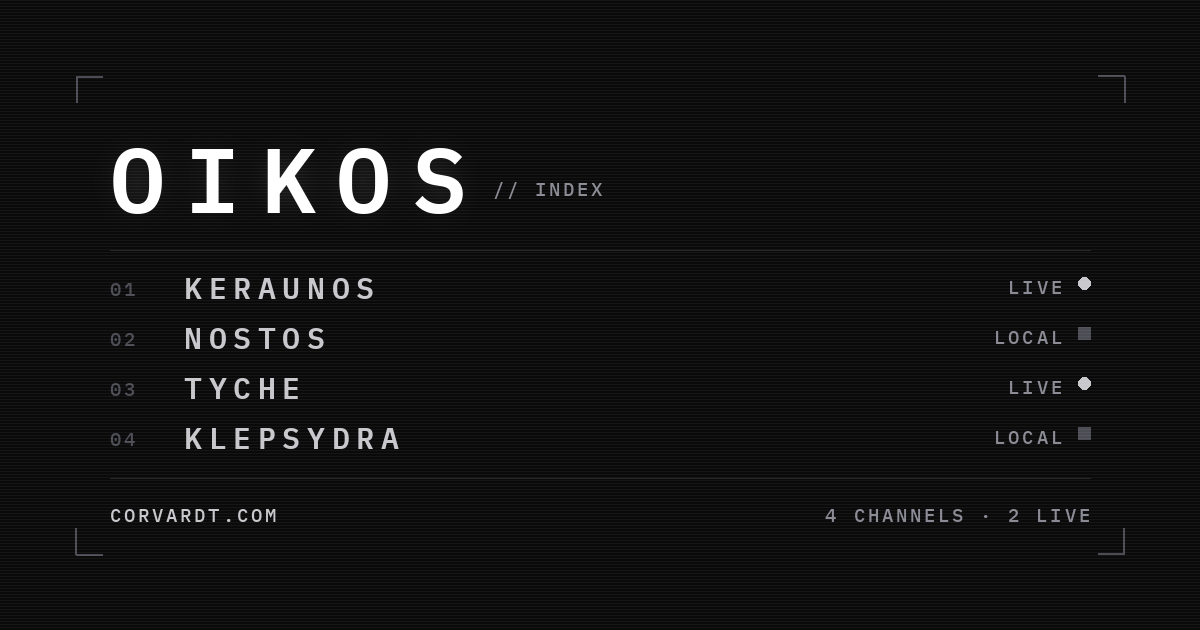
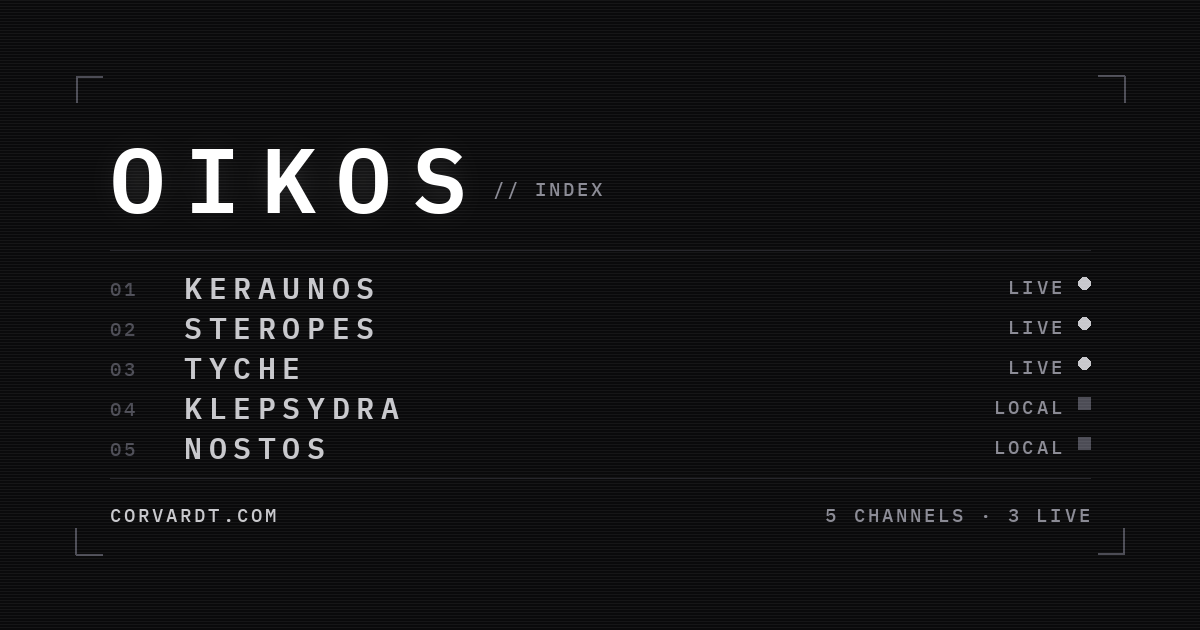
stations' order

diff --git a/records.js b/records.js
@@ -16,14 +16,12 @@ export const RECORDS = [
     status: 'live',
   },
   {
-    name: 'NOSTOS',
-    etym: 'νόστος · the homecoming',
-    desc: 'A media downloader that runs on your own machine. Paste a link, see what it is, queue it. Nothing is sent anywhere but the site you are pulling from.',
-    // It is not meant to be hosted, so the address is where the thing actually
-    // is: the repository you clone it from.
-    host: 'github.com/corvardt/nostos',
-    stack: 'python · fastapi · react · yt-dlp',
-    status: 'local',
+    name: 'STEROPES',
+    etym: 'Στερόπης · the lightning-maker, who forged the bolt',
+    desc: 'Random numbers drawn from lightning. The low digits of where a strike landed are solver noise nobody can predict; the page collects them, grades them against four statistical tests in front of you, and deals coins, dice, decks and plates from strikes that have not happened yet.',
+    host: 'steropes.corvardt.com',
+    stack: 'javascript · websocket · canvas',
+    status: 'live',
   },
   {
     name: 'TYCHE',
@@ -42,11 +40,13 @@ export const RECORDS = [
     status: 'local',
   },
   {
-    name: 'STEROPES',
-    etym: 'Στερόπης · the lightning-maker, who forged the bolt',
-    desc: 'Random numbers drawn from lightning. The low digits of where a strike landed are solver noise nobody can predict; the page collects them, grades them against four statistical tests in front of you, and deals coins, dice, decks and plates from strikes that have not happened yet.',
-    host: 'steropes.corvardt.com',
-    stack: 'javascript · websocket · canvas',
-    status: 'live',
+    name: 'NOSTOS',
+    etym: 'νόστος · the homecoming',
+    desc: 'A media downloader that runs on your own machine. Paste a link, see what it is, queue it. Nothing is sent anywhere but the site you are pulling from.',
+    // It is not meant to be hosted, so the address is where the thing actually
+    // is: the repository you clone it from.
+    host: 'github.com/corvardt/nostos',
+    stack: 'python · fastapi · react · yt-dlp',
+    status: 'local',
   },
 ];

diff --git a/og.py b/og.py
@@ -107,11 +107,12 @@ def build():
 
     # ── Stations ────────────────────────────────────────────────────────────
     # The band between the rules is fixed, so the catalogue sets the pitch
-    # rather than the other way round: rows tighten as stations are added, and
-    # past four the card stops listing and lets the tally speak for the rest.
+    # rather than the other way round: every station is listed and the rows
+    # tighten as they are added. The band holds six before the names begin to
+    # crowd; past that the card needs a cap and the tally to carry the rest.
     entries = records()
     top, bottom = 262, H - 168
-    shown = entries[:4]
+    shown = entries
     pitch = min(84, (bottom - top) // max(len(shown), 1))
     y = top + ((bottom - top) - pitch * len(shown)) // 2 + 6
 

diff --git a/README.md b/README.md
@@ -2,119 +2,37 @@
 
 οἶκος, the household.
 
-The index at [corvardt.com](https://corvardt.com), and the place the projects live.
-A short body of work is not a grid of cards; it is a set of channels you tune
-between, so the page is one tube and each project is a station on it. Only the
-tuned record is allowed to reach white.
+The index at **[corvardt.com](https://corvardt.com)**. A short body of work is
+not a grid of cards, it is a set of channels you tune between, so the page is
+one tube and each project is a station on it.
 
-No build, no dependencies, nothing fetched from anyone else. Static files and a
-typeface served from the same origin as the page.
+## The channels
 
-## Running
+| | | |
+| --- | --- | --- |
+| 1 | **[Keraunos](https://keraunos.corvardt.com)** | Lightning striking the earth, live, plotted on a world map as it happens |
+| 2 | **[Steropes](https://steropes.corvardt.com)** | Random numbers drawn from that same lightning, graded against four statistical tests in front of you |
+| 3 | **[Tyche](https://tyche.corvardt.com)** | Forty random Ethereum keys a roll, read against the chain. A free lottery at one in 2^160 |
+| 4 | **[Klepsydra](https://github.com/corvardt/klepsydra)** | A desktop card reading your Claude usage off your own machine |
+| 5 | **[Nostos](https://github.com/corvardt/nostos)** | A media downloader that runs on your own machine |
 
-```sh
-python3 -m http.server 4173
-```
-
-Then open `http://localhost:4173`. The modules are loaded as ES modules, so it
-has to be served; opening `index.html` from disk will not work.
+The first three are live at their own address. The last two run on your machine
+rather than on anyone's server, so they are marked with a square and point at
+the repository you clone them from.
 
 ## Using it
 
+Point at a record to tune it, click to open it.
+
 | | |
 | --- | --- |
-| **Point** | Hovering a record tunes it: the row lights and its corner ticks appear. Tuning is silent: the only motion on the glass is ambient, so running the pointer down the list sets nothing off |
-| **Keys** | `↑` `↓` or `j` `k` tune · `1`–`9` jump to a channel · `↵` open · `t` switch medium |
-| **Medium** | `dark` is phosphor on black, `light` is ink on chart stock. The choice is a cookie on `.corvardt.com`, so it carries to every project subdomain |
+| `↑` `↓` or `j` `k` | tune |
+| `1`–`9` | jump to a channel |
+| `↵` | open |
+| `t` | switch medium |
 
-## Adding a project
+`dark` is phosphor on black, `light` is ink on chart stock. The choice follows
+you into every project on the domain.
 
-One entry in `records.js`, a DNS record, and `python3 og.py`. The page numbers
-the channels and counts them itself.
-
-```js
-{
-  name: 'NAME',
-  etym: 'ἔτυμον · what it means',
-  desc: 'Two lines at most. What it does, not why it matters.',
-  host: 'name.corvardt.com',
-  stack: 'react · d3 · websocket',
-  status: 'live',
-}
-```
-
-| status | | indicator |
-| --- | --- | --- |
-| `live` | on air at its own host | filled dot, white when tuned |
-| `building` | on the way | hollow ring |
-| `local` | runs on your own machine, not hosted | square, since the round indicator belongs to what is being received |
-
-A `local` record points at wherever it actually is, usually its repository,
-rather than at a subdomain that would never answer.
-
-An entry of `{ vacant: true }` holds a channel number without a station, if a
-placeholder is ever wanted. The catalogue currently runs without one.
-
-## Layout
-
-| Path | Role |
-| --- | --- |
-| `crt.css` | The shared medium: the typeface, both palettes, the glass, the decay rule, the corner ticks. Carried verbatim from Keraunos and meant to be copied into each project unchanged, with `fonts/` alongside it |
-| `fonts/` | IBM Plex Mono, three weights, latin and latin-ext |
-| `assets/` | The page's own media. `glyph.svg` is the favicon and `apple-touch-icon.png` its home-screen counterpart; `fonts/` stays at the root because `crt.css` is copied into each project expecting it alongside |
-| `index.css` | This page only: the operator, the tuner, the records |
-| `assets/portrait.jpg` | The operator's plate, composited into whichever medium is on |
-| `records.js` | The catalogue |
-| `og.py` | Draws `assets/og.png`, the card the index unfurls as. Run by hand, not a build step |
-| `assets/og.png` | 1200×630, committed. Regenerate it whenever the catalogue changes |
-| `index.js` | Renders the records and runs the tuning |
-| `theme.js` | Medium selection, stored domain-wide |
-
-## Notes
-
-The palette, the glass and the decay rule are lifted from Keraunos rather than
-re-derived, so the index and the projects cannot drift apart. If a token
-changes there, it changes here.
-
-White is reserved. In `dark` it belongs to the record you are on, and nothing
-else in the interface is allowed to reach it; in `light` black takes over that
-role. The whole page is otherwise built out of `dim`, `land` and `text`.
-
-The medium is resolved by an inline script in the head, before first paint, so
-the tube never flashes on paper. It reads a cookie scoped to `.corvardt.com`
-rather than `localStorage`, which is per-origin and would not survive the jump
-to a subdomain. The cookie is named `corvardt-theme`; each project needs a
-matching read in its own head script for the handoff to work in both
-directions; Keraunos currently reads `keraunos-theme`/`lightning-theme` out of
-`localStorage`.
-
-The portrait is composited rather than pasted on: screened on the tube, so the
-black plate falls away and the figure reads as emitted light; inverted and
-multiplied on paper, so it reads as ink in the stock. It is held just below the
-interface white, which belongs to the tuned record.
-
-The typeface is served from this origin. A page whose creed line is about
-keeping control of your own data should not hand every visitor's IP to Google
-for a font, and the self-hosted files also drop two preconnects and a
-render-blocking third-party stylesheet from the head. Plex Mono ships no Greek
-subset, so the etymologies render in the system mono, as they always did, via
-Google or not.
-
-The unfurl card is drawn from `records.js` rather than maintained beside it, so
-it cannot advertise a station the page does not have. It is the only thing here
-that needs a dependency (Pillow), which is why it runs on your machine and
-commits its output instead of running at deploy: visitors get a PNG, and the
-repo keeps its promise of no build. The card lists at most four stations and
-tightens its rows as they are added, dropping the stack lines rather than
-letting them print through each other; past four, the tally carries the rest.
-
-Everything animated is switched off under `prefers-reduced-motion`. Nothing is
-animated in response to tuning: a pointer crossing the list would fire that on
-every row it passed, which read as a stutter rather than as an instrument.
-
-## Deploying
-
-Cloudflare Pages, one project per host: this repo on the apex, each project on
-its own subdomain, with a wildcard `CNAME` so a new station is a record in
-`records.js` and nothing else. There is no build step here: point Pages at the
-repo root with an empty build command.
+Nothing is fetched from anyone else: no trackers, no analytics, no fonts from a
+third party. The page is static files served from one origin.
